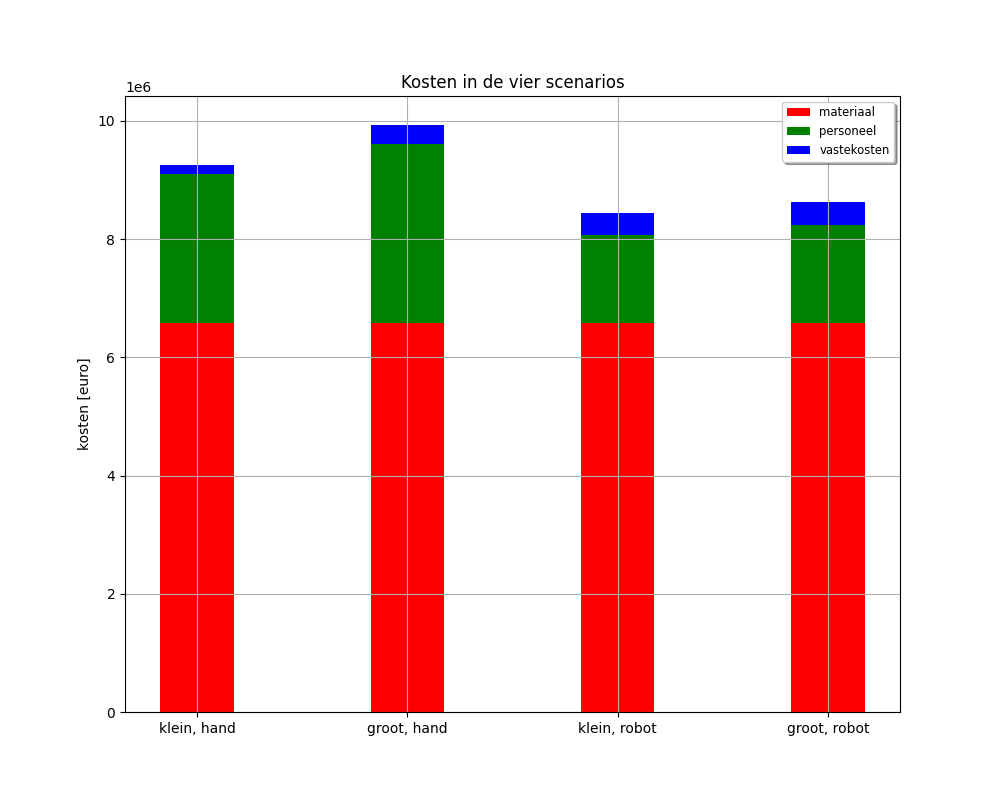
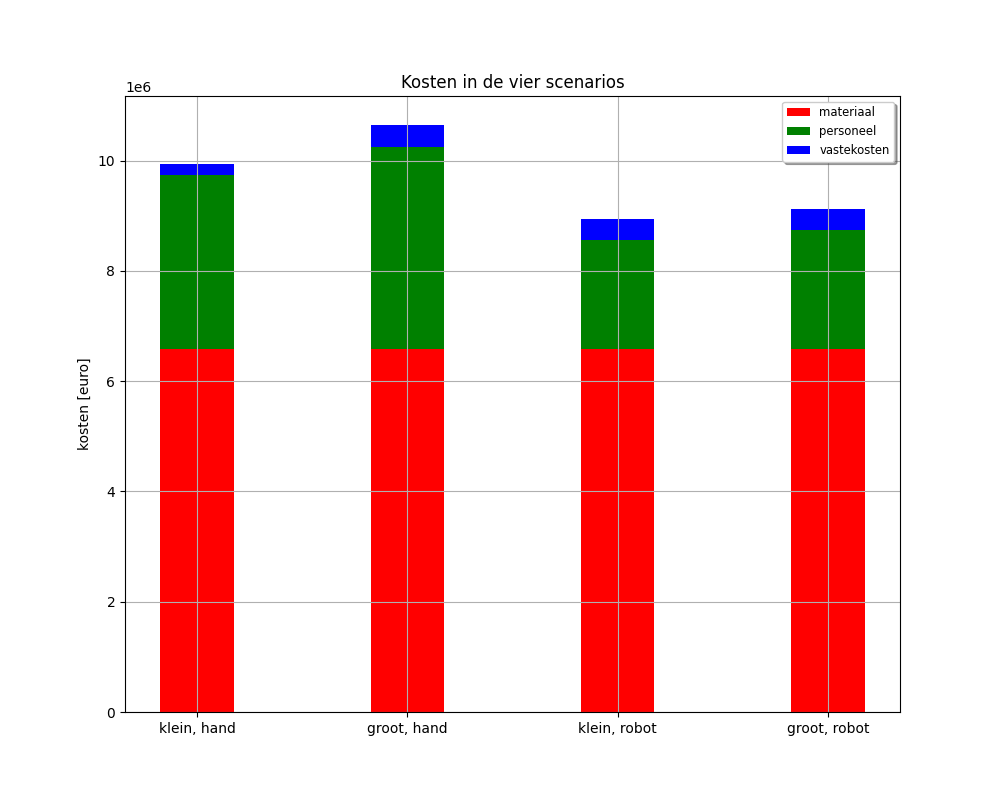
hops

diff --git a/construeren/plaatproductie/losse testjes.py b/construeren/plaatproductie/losse testjes.py
@@ -67,6 +67,7 @@ class totaal():
         m_totaal = m_plaat+m_z+m_s+m_g
         materiaal = aantal_jaar*m_totaal
         
+
         ndraaien = 2
         Tphechten = nplaat-1
         Tplassen = Llas_plaat/14400
@@ -77,7 +78,7 @@ class totaal():
 
 
         urenpplaat = Tphechten + Tplassen+ Tzgslassen+2*Tshechten+2*Tzghechten+2*Tdraaien
-        productieuren = Tphechten + Tplassen+ Tzgslassen+Tshechten+Tzghechten+Tdraaien
+        productieuren = Tphechten + Tplassen+ Tzgslassen/2+Tshechten+Tzghechten+Tdraaien
         personeel = aantal_jaar*50* urenpplaat
 
         nplek = np.int32((productieuren*aantal_jaar)/2000)
@@ -121,15 +122,15 @@ class totaal():
         ndraaien = 2
         Tphechten = nplaat-1
         Tplassen = Llas_plaat/14400
-        Tzgslassen = 1/0.35*(Llas_vrang_verti/1.2 +(Llas_vrang_hori+Llas_zaathout+Llas_spant)/2)*((7.8*5**2)/2000)
+        Tzgslassen = (Llas_vrang_verti/1.2 +(Llas_vrang_hori+Llas_zaathout+Llas_spant)/2)*((7.8*5**2)/2000)/0.35
         Tshechten = 0.5*(nspant)
         Tzghechten = 4*(nvrang+nzaathout)
         Tdraaien = ndraaien*2
 
 
         urenpplaat = Tphechten + Tplassen+ Tzgslassen+2*Tshechten+4*Tzghechten+2*Tdraaien
-        productieuren = Tphechten + Tplassen+ Tzgslassen+Tshechten+Tzghechten+Tdraaien
-        personeel = aantal_jaar*50*urenpplaat
+        productieuren = Tphechten + Tplassen+ Tzgslassen/2+Tshechten+Tzghechten+2*Tdraaien
+        personeel = aantal_jaar*50* urenpplaat
 
         nplek = np.int32((productieuren*aantal_jaar)/2000)
         loods = 2*A*nplek
@@ -179,7 +180,7 @@ class totaal():
                 urenpplaat[i] = loc4en5[i]
         personeel = aantal_jaar*90*urenpplaat
         loods = 1500
-        vastekosten = 70*loods +275000*10*ss/ss
+        vastekosten = 70*loods +275000*ss/ss
         totaal = materiaal + personeel + vastekosten 
         return totaal, materiaal, personeel, vastekosten,urenpplaat
 
@@ -224,7 +225,7 @@ class totaal():
 
         personeel = aantal_jaar*90*urenpplaat
         loods = 1200
-        vastekosten = 70*loods +300000*10*ss/ss
+        vastekosten = 70*loods +300000*ss/ss
 
         totaal = materiaal + personeel + vastekosten 
         return totaal, materiaal, personeel, vastekosten,urenpplaat
@@ -239,14 +240,36 @@ k_r_4_tot, k_r_4_mat,k_r_4_per,k_r_4_vast,k_r_man = totaal.klein_robot(4)
 g_r_4_tot, g_r_4_mat,g_r_4_per,g_r_4_vast,g_r_man = totaal.groot_robot(4)
 
 
-'''print([["scenario","manuren"],
+print([["scenario","manuren"],
        ["hand klein",k_h_man],
        ["hand groot",g_h_man],
        ["robot klein",k_r_man],
-       ["robot groot",g_r_man]])'''
+       ["robot groot",g_r_man]])
 
 print([["scenario","totaal","materiaal","personeel","vast"],
        ["klein hand",k_h_4_tot, k_h_4_mat,k_h_4_per,k_h_4_vast],
        ["groot hand",g_h_4_tot, g_h_4_mat,g_h_4_per,g_h_4_vast],
        ["klein robot",k_r_4_tot, k_r_4_mat,k_r_4_per,k_r_4_vast],
        ["groot robot",k_r_4_tot, k_r_4_mat,k_r_4_per,k_r_4_vast]])
+
+
+def bar_plot():
+    materiaal_tup = (min(g_h_4_mat),min(g_h_4_mat),min(g_h_4_mat),min(g_h_4_mat))
+    personeel_tup = (min(k_h_4_per),min(g_h_4_per),min(k_r_4_per),min(g_r_4_per))
+    vastekosten_tup = (min(k_h_4_vast),min(g_h_4_vast),min(k_r_4_vast),min(g_r_4_vast))
+    figure = plt.figure(figsize=(10,8))
+    ind = np.arange(4)
+    plt.bar(ind, np.array(materiaal_tup), 0.35,    color="red", label="materiaal")
+    plt.bar(ind, np.array(personeel_tup),  0.35,   bottom=np.array(materiaal_tup),   color="green", label="personeel")
+    plt.bar(ind, np.array(vastekosten_tup), 0.35,  bottom=np.array(personeel_tup)+np.array(materiaal_tup),    color="blue", label="vastekosten")
+    plt.xticks(ind,["klein, hand","groot, hand","klein, robot","groot, robot"])
+    plt.ticklabel_format(style='sci', axis='y', scilimits=(6,6))
+    plt.ylabel("kosten [euro]")
+    titeltje= "Kosten in de vier scenarios"
+    plt.title(titeltje)
+    plt.legend(loc = "best", shadow = True, fontsize="small")
+    plt.grid()
+    figure.savefig("./construeren/plaatproductie/barplot.png")
+
+
+bar_plot()
